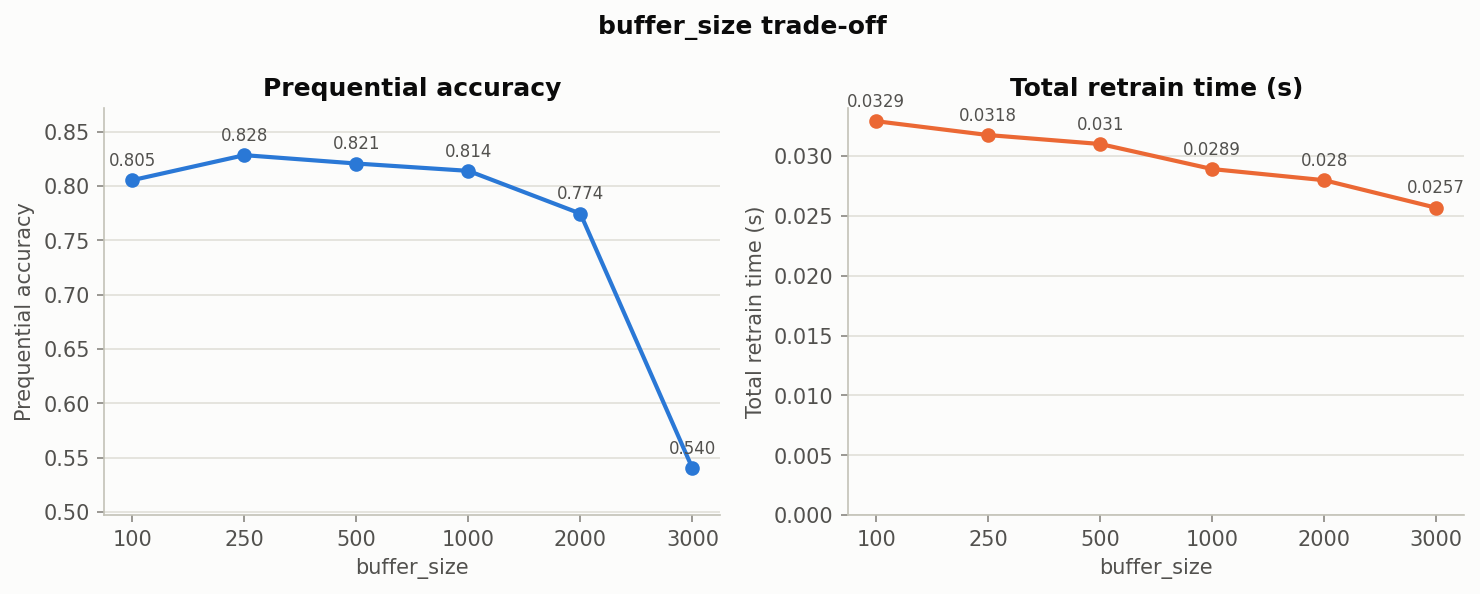
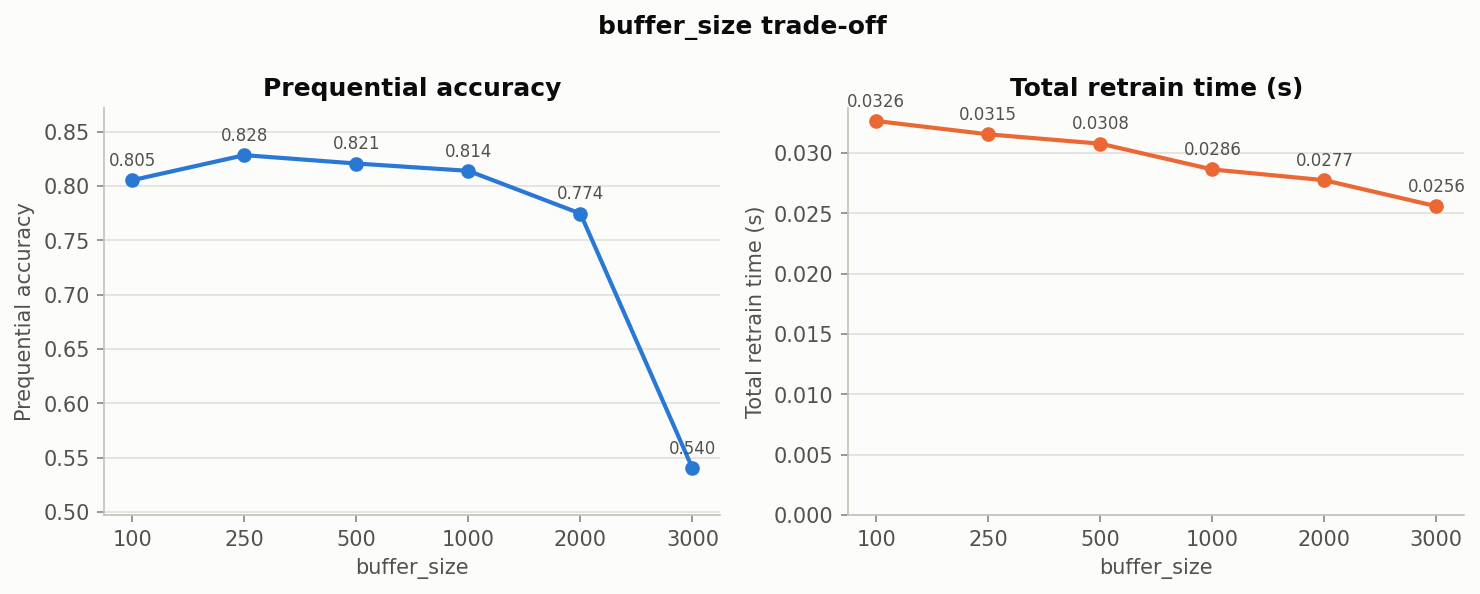
Update README, requirements and pyproject for numcompute_stream
README documents setup, streaming usage, design decisions and benchmark
results; base 2.1 package is kept unchanged. Refresh benchmark results.

diff --git a/README.md b/README.md
@@ -1,173 +1,130 @@
-# NumCompute
+# NumCompute 2.2: streaming decision-tree framework
 
-A modular, end-to-end machine-learning toolkit written from scratch in **pure Python + NumPy**.
-NumCompute re-implements the core building blocks of libraries such as scikit-learn:
-data loading, preprocessing, sorting/searching, ranking, statistics, metrics,
-numerical differentiation and a pipeline abstraction. No scikit-learn, pandas,
-SciPy or PyTorch is used.
-
-Design goals:
-
-* **Vectorised**: no Python loops in core computations, except where they can't be avoided (per-feature category sets, the sequential iterations of an optimiser).
-* **Numerically stable**: max-shifted `softmax`/`logsumexp`, overflow-safe `sigmoid`, Welford/Chan streaming variance, relative finite-difference steps.
-* **Consistent API**: explicit `axis` semantics, documented shapes, informative errors for type and shape mismatches.
-* **Documented and tested**: every public function has a docstring listing parameters, returns, exceptions and time/space complexity. The suite has 99 unit tests.
-
----
-
-## Repository layout
+A NumPy + matplotlib only framework for **online learning** with a single
+decision tree that adapts to streams through **buffered retraining**.
 
 ```
-NumCompute/
-├── numcompute/
-│   ├── __init__.py
-│   ├── io.py            # CSV reader (streaming/chunking), dtype + missing-value handling
-│   ├── preprocessing.py # StandardScaler, MinMaxScaler, SimpleImputer, OneHotEncoder
-│   ├── sort_search.py   # stable & multi-key sort, top-k (argpartition), quickselect, binary search
-│   ├── rank.py          # ranking with ties; percentiles (5 interpolation modes)
-│   ├── stats.py         # descriptive & axis-wise stats, histogram, quantiles, streaming Welford
-│   ├── metrics.py       # accuracy/precision/recall/F1, confusion matrix, MSE, ROC/AUC
-│   ├── optim.py         # finite-difference gradient & Jacobian, line search
-│   ├── pipeline.py      # Transformer/Estimator API, Pipeline, FeatureUnion, ColumnTransformer
-│   ├── utils.py         # distances, activations, logsumexp, top-k mask, batching
-│   └── benchmarking.py  # micro-benchmark harness
-├── tests/               # 99 pytest unit tests (edge cases: empty, ties, NaN, extreme k, strides)
-├── benchmark/           # loop vs vectorised benchmarks + results
-├── demo/
-│   ├── quickstart.ipynb # end-to-end demo (executed, outputs saved)
-│   ├── build_notebook.py
-│   └── data/customers.csv
-├── README.md
-├── pyproject.toml
-└── requirements.txt
+numcompute_stream/
+  io.py            CSV loading (load_csv) and chunked streaming (iter_csv_chunks, iter_array_chunks)
+  stats.py         StreamingStats (mean/var/min/max), StreamingQuantile, StreamingHistogram, update_stats()
+  preprocessing.py StandardScaler (Welford or EMA), MinMaxScaler, SimpleImputer, OneHotEncoder – all partial_fit
+  tree.py          DecisionTreeClassifier (Gini/entropy, max_depth, min_samples_split, max_features, buffer_size)
+  metrics.py       accuracy/precision/recall/F1/confusion/AUC – functional + streaming (update/result/reset, window=)
+  pipeline.py      Pipeline with partial_fit / fit / predict / predict_proba
+  stream.py        StreamTrainer – fit_chunk / score_chunk / process_chunk, per-chunk logs (accuracy, memory, time)
+  visualise.py     plot_metric_over_time, compare_models, plot_predictions_vs_ground_truth, plot_tradeoff
+  utils.py         validation helpers, NotFittedError
+data/              sensor_stream.csv + make_dataset.py (drift at row 3 500, new category after row 3 000)
+demo/              stream_demo.ipynb
+tests/stream/      74 pytest tests for numcompute_stream
+benchmark/         stream_benchmark.py → stream_results.md + figures/
 ```
 
-## Installation
+This branch extends the group's Assignment 2.1 package `numcompute/`, which is
+kept unchanged (see [Base package](#base-package-assignment-21) below).
 
-Requires Python ≥ 3.9 and NumPy ≥ 1.23.
+## Setup
 
 ```bash
-git clone <your-repo-url> NumCompute
-cd NumCompute
-python -m venv .venv
-# Windows: .venv\Scripts\activate     macOS/Linux: source .venv/bin/activate
-pip install -e ".[dev]"          # installs numcompute + pytest, jupyter, matplotlib
+python -m venv .venv && source .venv/bin/activate
+pip install -r requirements.txt
+jupyter notebook demo/stream_demo.ipynb     # run the streaming demo
 ```
 
-To install the package alone, without the dev tools, run `pip install -e .`, which pulls in only NumPy.
-
-## Running tests, demo and benchmarks
-
-```bash
-pytest                                   # 99 tests
-jupyter notebook demo/quickstart.ipynb   # end-to-end demo
-python benchmark/run_benchmarks.py       # writes benchmark/results.md and results.csv
-python benchmark/run_benchmarks.py --quick
-```
-
-## Quick example
+## Quick start
 
 ```python
-import numpy as np
-from numcompute import io, preprocessing, pipeline, metrics, sort_search, rank, stats, optim
+from numcompute_stream import (io, Pipeline, OneHotEncoder, SimpleImputer, StandardScaler,
+                               DecisionTreeClassifier, StreamTrainer, StreamingF1)
 
-# 1. Load data (missing cells -> NaN)
-X, cols = io.read_csv("demo/data/customers.csv", usecols=["age", "income", "hours_per_week"])
-
-# 2. Preprocess with a pipeline
-pipe = pipeline.Pipeline([
-    ("impute", preprocessing.SimpleImputer(strategy="median")),
-    ("scale",  preprocessing.StandardScaler()),
+pipe = Pipeline([
+    ("onehot", OneHotEncoder(columns=[5])),                 # machine_type
+    ("impute", SimpleImputer(allow_growth=True)),
+    ("scale",  StandardScaler(allow_growth=True)),
+    ("model",  DecisionTreeClassifier(max_depth=5, buffer_size=500)),
 ])
-X_tr = pipe.fit_transform(X)
-
-# The spec's example also works:
-pipe2 = pipeline.Pipeline([("scale", preprocessing.StandardScaler()),
-                           ("encode", preprocessing.OneHotEncoder())])
-
-# 3. Top-k, ranks, percentiles, stats
-vals, idx = sort_search.topk(X_tr[:, 1], k=5)               # O(n) via argpartition
-r = rank.rank([10, 20, 20, 30], method="average")           # [1. 2.5 2.5 4.]
-p90 = rank.percentile(X, 90, axis=0, nan_policy="omit")
-counts, edges = stats.histogram(X[:, 1], bins=10)
-
-# 4. Gradients
-g = optim.grad(lambda v: (v ** 2).sum(), np.array([1.0, 2.0]))   # [2. 4.]
-
-# 5. Metrics
-metrics.f1([1, 0, 1, 1], [1, 0, 0, 1])                           # 0.8
+trainer = StreamTrainer(pipe, metrics={"f1": StreamingF1()})
+for chunk in io.iter_csv_chunks("data/sensor_stream.csv", 100, target="fault",
+                                categorical=["machine_type"]):
+    trainer.process_chunk(chunk.X, chunk.y)     # test-then-train
+print(trainer.summary())
 ```
 
-## API overview
+```bash
+python -m pytest -q tests/stream     # streaming package only
+python -m pytest -q                  # everything (incl. 2.1 base package)
+```
 
-All transformers implement `fit(X) -> self`, `transform(X) -> X_out` and `fit_transform(X)`. Models implement `fit(X, y)` and `predict(X)`. Inputs are `(n_samples, n_features)` arrays. A 1-D input to a transformer raises `ValueError` with a hint to `reshape(-1, 1)`.
+```bash
+python benchmark/stream_benchmark.py
+```
 
-| Module | Main API | Notes |
-|---|---|---|
-| `io` | `read_csv(path, delimiter=',', dtype=float, fill_value=nan, drop_missing=False, usecols=None)` → `(array, columns)`; `read_csv_columns`; `iter_csv_chunks(path, chunksize)`; `count_missing` | Built on `np.genfromtxt`. Missing tokens: `'' NA N/A NaN null None ?`. Chunked streaming keeps memory constant. |
-| `preprocessing` | `StandardScaler(with_mean, with_std, ddof)`, `MinMaxScaler(feature_range, clip)`, `SimpleImputer(strategy, fill_value)`, `OneHotEncoder(categories, handle_unknown, drop_first)` | Constant features don't divide by zero. NaNs are ignored in `fit`. `inverse_transform` and `get_feature_names` are available. |
-| `sort_search` | `stable_sort(a, axis, descending)`, `multikey_sort(X, keys, descending)`, `topk(values, k, largest=True, return_indices=True, axis=-1)`, `quickselect(arr, k)`, `binary_search(sorted, x)` → `(index, found)` | Descending sort stays stable. `topk` breaks ties deterministically (lowest index first). `quickselect` uses a 3-way partition, so duplicates are safe. |
-| `rank` | `rank(data, method='average'\|'min'\|'max'\|'dense'\|'ordinal', ascending, axis, nan_policy)`, `percentile(data, q, interpolation='linear'\|'lower'\|'higher'\|'midpoint'\|'nearest', axis, nan_policy)` | Implemented from scratch on `argsort`/`sort` and checked against `np.percentile`. |
-| `stats` | `mean/median/var/std/minimum/maximum(x, axis, skipna)`, `quantile`, `describe`, `histogram(x, bins, range, density)`, `RunningStats`, `StreamingHistogram` | `axis=0` gives per column, `axis=1` gives per row, `None` gives a scalar. Streaming uses Welford/Chan merging. |
-| `metrics` | `accuracy`, `precision`, `recall`, `f1` (`average='binary'\|'macro'\|'micro'\|'weighted'\|None`), `confusion_matrix(labels, normalize)`, `mse/rmse/mae/r2_score`, `roc_curve`, `auc`, `roc_auc_score` | Confusion matrix built with a single `bincount`. `zero_division` controls 0/0. |
-| `optim` | `grad(f, x, h=1e-5, method='central'\|'forward'\|'backward', vectorized=False)`, `jacobian(F, x, ...)`, `check_grad`, `line_search` (Armijo), `gradient_descent` | Relative step `h·max(1,\|x\|)`. `vectorized=True` evaluates all perturbations in a single call. |
-| `pipeline` | `Pipeline`, `make_pipeline`, `FeatureUnion`, `ColumnTransformer`, `FunctionTransformer`, `BaseEstimator` (`get_params/set_params`) | Includes reference estimators: `MeanRegressor`, `MajorityClassifier`, `LeastSquaresRegressor`, `LogisticRegressionGD`. |
-| `utils` | `pairwise_distances(A, B, metric)`, `logsumexp`, `softmax`, `log_softmax`, `sigmoid`, `relu`, `topk_mask`, `batch_iterator`, `check_array` | Max-shift trick for `softmax` and `logsumexp`. |
-| `benchmarking` | `timeit`, `compare`, `format_table`, `environment_info` | Takes the best of N repeats after a warm-up, and verifies all implementations return identical results. |
+## Design notes
 
-## Performance (vectorised vs Python loops)
+**Buffered retraining (`tree.py`).** `partial_fit` appends the chunk to a buffer.
+When the buffer holds `>= buffer_size` samples the tree is rebuilt **from scratch**
+on the buffer and the buffer is cleared. Between retrains `predict` uses the latest
+tree. Before the first retrain `predict` raises `NotFittedError` with the buffer
+fill level, and `flush()` forces a retrain early. `buffer_size=None` retrains on
+every call. `classes_` grows as new labels appear, and `partial_fit(..., classes=)`
+fixes the `predict_proba` width up front.
 
-Generated by `python benchmark/run_benchmarks.py`. Each figure is the best of 5 runs after a warm-up, and every implementation's output was verified equal. Speed-up is measured against the first row of each task.
+**Vectorisation.** Split search sorts all candidate features at once, takes class
+counts left of every threshold from a single `cumsum` over a one-hot tensor, and
+scores every (threshold, feature) pair in one expression. Features are processed in
+blocks so the temporary arrays stay small. Prediction walks the tree one level at a
+time for all samples together. The only Python loop in training is over nodes.
+Loop-based reference versions (`best_split_loop`, `predict_loop`, `welford_loop`,
+`confusion_matrix_loop`) exist for the benchmarks and the equivalence tests.
 
-| Task | Implementation | Best (ms) | Speed-up |
-|---|---|---:|---:|
-| StandardScaler (20k × 8) | python loop | 39.21 | 1.0× |
-| | numcompute | 3.20 | **12.3×** |
-| Pairwise euclidean (400 × 300 × 16) | python loop | 178.55 | 1.0× |
-| | numcompute | 0.57 | **311×** |
-| Row softmax (5k × 50) | python loop | 24.18 | 1.0× |
-| | numcompute | 1.43 | **17.0×** |
-| Mean & variance (200k) | python Welford loop | 11.10 | 1.0× |
-| | numcompute RunningStats | 1.45 | **7.7×** |
-| Histogram (200k, 30 bins) | python loop | 17.74 | 1.0× |
-| | numcompute | 2.79 | **6.4×** |
-| Rank, average ties (20k) | python loop | 7.18 | 1.0× |
-| | numcompute | 1.51 | **4.7×** |
-| Percentile q=90 (200k) | python `sorted()` | 33.66 | 1.0× |
-| | numcompute | 1.62 | **20.8×** |
-| Top-10 of 200k | python `sorted()` | 33.86 | 1.0× |
-| | full `np.sort` | 1.15 | 29.6× |
-| | numcompute `topk` (argpartition) | 0.51 | **65.9×** |
-| Confusion matrix (100k, 5 classes) | python loop | 3.57 | 1.0× |
-| | numcompute (bincount) | 0.42 | **8.6×** |
-| One-hot encode (40k, 20 cats) | python loop | 9.02 | 1.0× |
-| | numcompute | 2.06 | **4.4×** |
-| Finite-diff gradient (n=500) | per-point `f` calls | 4.91 | 1.0× |
-| | batched `f` (`vectorized=True`) | 3.21 | **1.5×** |
+**Numerical stability.**
+* Running mean and variance use Chan et al.'s parallel merge of Welford's algorithm.
+  It stays exact at a 1e9 offset, where a naive sum of squares fails (tested).
+  Tiny negative variances from round-off are clipped to 0.
+* NaNs are ignored by all statistics. A feature with no observed values reports NaN
+  and doesn't raise. Imputers fall back to `fill_value` for those features.
+* Zero-variance features get `scale_ = 1` in the scalers. A constant feature gets a
+  unit-width histogram range. A tree on all-constant features returns one leaf.
+* Ties: split thresholds only go between distinct values (an overflow-safe midpoint).
+  Equal gains go to the lowest feature index and then the lowest threshold. Equal
+  class probabilities go to the smallest label. Equal AUC scores count as ½.
+* Missing values in the tree: gain is computed on non-missing rows and scaled by the
+  non-missing fraction (C4.5 style). Missing rows go to the larger child.
+* Ratios that are ill-defined (for example the precision of a class never predicted)
+  return 0.0 instead of NaN or a warning.
 
-Environment: Python 3.13, NumPy 2.5.3, Linux x86_64, 2 vCPUs. The full table with mean ± std is in `benchmark/results.md`. Absolute timings vary by machine, so re-run the script on your own hardware before quoting numbers.
+**Growing feature width.** `OneHotEncoder` always appends new categories at the end,
+so existing columns never move. With `allow_growth=True`, scalers and imputers accept
+the new trailing columns and assume earlier rows held 0 there, which is exact for
+one-hot data. The tree pads buffered rows to match.
 
-## Edge cases covered by tests
+**API conventions.** `X` is `(n_samples, n_features)` and statistics run along
+`axis=0`. A 1-D `X` raises an error that suggests the correct reshape. Mismatched
+lengths and widths raise errors that name both shapes.
 
-* Empty arrays raise informative `ValueError`s (`stats`, `percentile`, `quickselect`, `metrics`, scalers).
-* All-equal values: constant features in the scalers, histograms of a constant array, `quickselect` and `rank` on identical values.
-* Duplicates and ties: every `rank` method, stable descending sort, `topk` boundary ties, ROC with tied scores.
-* Extreme `k`: `topk` with `k=0` and `k=n`, `quickselect` with `k=0`, `k=n-1` and `k=-1`.
-* NaN handling: `skipna` and `nan_policy` options, NaN as a one-hot category, streaming stats with NaN, `logsumexp` with ±inf and NaN.
-* Non-contiguous (strided) inputs to the scalers and sorting.
-* Numerical stability: `softmax` and `logsumexp` at ±1000, `RunningStats` with a 1e6 offset, cancellation in pairwise distances.
+**Known limitation.** Inside a `Pipeline`, the tree buffers rows that are already
+transformed. Rows buffered early were therefore scaled with slightly older
+statistics. This matters only while the scaler is still warming up.
 
-## Known limitations
+## Benchmark highlights (see `benchmark/stream_results.md`)
 
-* `read_csv` does not parse quoted fields that contain the delimiter, because `genfromtxt` doesn't support it.
-* `rank(..., axis=k)` on N-D input runs the vectorised 1-D kernel once per slice through `np.apply_along_axis`.
-* The reference estimators in `pipeline.py` demonstrate the fit/predict protocol and are not tuned ML models.
+| Operation | Speed-up of vectorised over loop |
+|---|---:|
+| Best-split search (n=1000, 8 features) | ~100x |
+| Running mean/var | ~45x |
+| Tree predict (20k samples) | ~20x |
+| Confusion matrix (200k) | ~6x |
 
-## Authors and contributions
+On the drifting stream, `buffer_size` of 250 to 1000 gives the best prequential
+accuracy (0.81 to 0.83). At 100, each tree sees too little data. At 2000 or more,
+the start is slow and the model reacts slowly to drift: accuracy falls to 0.54 at
+3000. Total retrain time hardly changes with buffer size because every sample is
+trained on exactly once, but the cost of a single retrain grows with `buffer_size`.
 
-| Member | Contribution focus | Main work |
-|---|---|---|
-| Sai Datta Kamal Ashwin | Numerical implementation and vectorisation | Vectorised NumPy implementations using array operations, broadcasting and matrix calculations to remove unnecessary loops, e.g. pairwise distances, preprocessing and top-k selection. |
-| Supriya Gopal | Module integration, API consistency and review | Bringing the modules together into one package; keeping inputs, outputs and error handling consistent across modules; reviewing the package as a whole. |
-| Harsh Shail Joshi | Testing, edge cases and correctness checks | Unit tests for ordinary and edge cases (empty inputs, repeated values, mismatched shapes, constant-valued features, invalid parameters) and checks of error behaviour. |
-| Siri Tummala | Benchmarking, documentation and performance evidence | Loop-versus-vectorised benchmarks, performance results and documentation. |
+## Base package (Assignment 2.1)
+
+`numcompute/` is the group's batch toolkit from Assignment 2.1 (I/O, preprocessing,
+sorting/searching, ranking, statistics, metrics, finite-difference optimisation,
+pipelines). It is unchanged on this branch. Its tests are in `tests/test_*.py`, and its
+benchmarks are `benchmark/run_benchmarks.py` → `benchmark/results.md`.
+`numcompute_stream/` is a separate package, so code that uses the 2.1 API keeps working.

diff --git a/benchmark/stream_results.md b/benchmark/stream_results.md
@@ -6,12 +6,12 @@ Machine: arm64, NumPy 2.0.2. Loop timings: single run; vectorised: best of 3.
 
 | Operation | Loop (s) | Vectorised (s) | Speed-up |
 |---|---:|---:|---:|
-| Best-split search (n=250, 8 features) | 0.0163 | 0.00015 | 109x |
-| Best-split search (n=1000, 8 features) | 0.0656 | 0.00054 | 122x |
-| Best-split search (n=4000, 8 features) | 0.2640 | 0.00263 | 100x |
-| Tree predict (20k samples, depth 10) | 0.0185 | 0.00093 | 20x |
-| Running mean/var (20k x 8, chunks of 500) | 0.0684 | 0.00151 | 45x |
-| Confusion matrix (200k labels, 5 classes) | 0.0312 | 0.00535 | 6x |
+| Best-split search (n=250, 8 features) | 0.0158 | 0.00015 | 107x |
+| Best-split search (n=1000, 8 features) | 0.0632 | 0.00052 | 121x |
+| Best-split search (n=4000, 8 features) | 0.2534 | 0.00261 | 97x |
+| Tree predict (20k samples, depth 10) | 0.0181 | 0.00086 | 21x |
+| Running mean/var (20k x 8, chunks of 500) | 0.0661 | 0.00154 | 43x |
+| Confusion matrix (200k labels, 5 classes) | 0.0310 | 0.00536 | 6x |
 
 ## (b) Effect of `buffer_size` (6 000-row stream, chunks of 100, concept drift at row 3500)
 
@@ -21,5 +21,5 @@ Machine: arm64, NumPy 2.0.2. Loop timings: single run; vectorised: best of 3.
 | 250 | 0.828 | 0.780 | 20 | 0.032 | 1.6 | 19 |
 | 500 | 0.821 | 0.756 | 12 | 0.031 | 2.6 | 36 |
 | 1000 | 0.814 | 0.744 | 6 | 0.029 | 4.8 | 77 |
-| 2000 | 0.774 | 0.714 | 3 | 0.028 | 9.3 | 156 |
+| 2000 | 0.774 | 0.714 | 3 | 0.028 | 9.2 | 156 |
 | 3000 | 0.540 | 0.474 | 2 | 0.026 | 12.8 | 234 |
